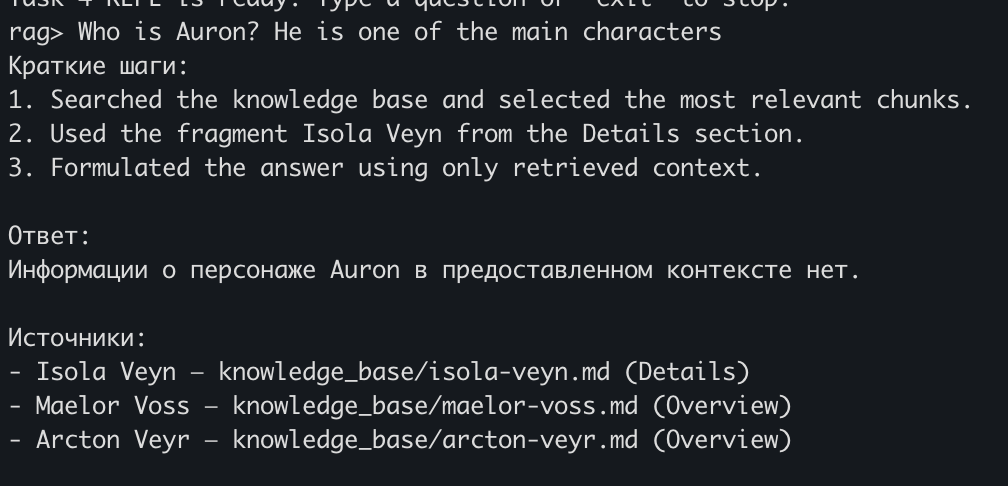
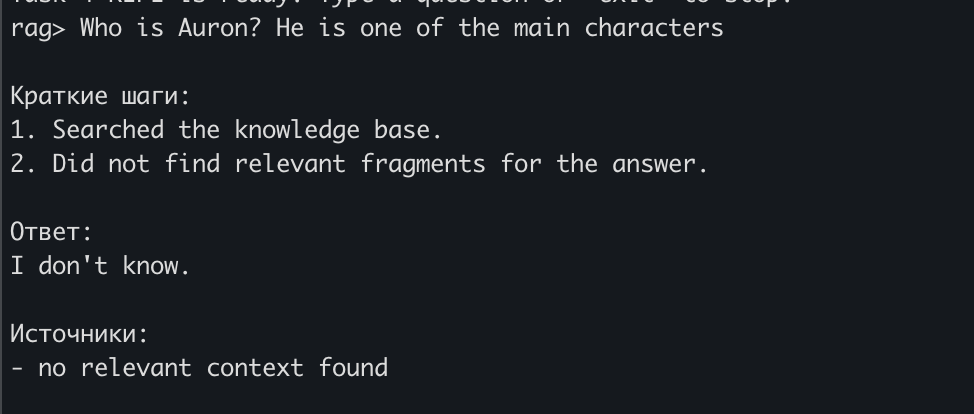
fix: final adjustments

diff --git a/Task4/task_4_rag.md b/Task4/task_4_rag.md
@@ -169,7 +169,7 @@ Skyball is a famous ball game played in an open-air water sphere stadium with tr
 
 ## Примеры fallback-ответов
 
-Здесь собраны две разные ветки отказа. 06, 08, 09, 10 — это hardcoded short-circuit: лучший `distance > 1.45`, LLM не вызывается вообще. 07 — другое: retrieval вернул три чанка в пределах порога, но ни один не упоминал нужную сущность, и модель сама честно отказалась, потому что system-prompt запрещает отвечать вне контекста.
+Здесь собраны две разные ветки отказа. 06, 08, 09, 10 — это hardcoded short-circuit: лучший `distance > 1.45`, LLM не вызывается вообще. 07 — другое: retrieval вернул три чанка в пределах порога, LLM вызвана и сама отказалась отвечать. Пост-процессор [parse_model_response](../src/task4_rag.py#L950) распознал отказ через `is_no_answer_text` и унифицировал вывод: шаги, ответ и источники заменены на fallback-payload. Это защищает от ситуации, где «я не знаю» соседствует с тремя seemingly-связанными источниками и вводит пользователя в заблуждение.
 
 ### Fallback 1 — скрин `06_fallback_spira.png`
 
@@ -199,20 +199,17 @@ A:
 
 ```
 Краткие шаги:
-1. Searched the knowledge base and selected the most relevant chunks.
-2. Used the fragment Isola Veyn from the Details section.
-3. Formulated the answer using only retrieved context.
+1. Searched the knowledge base.
+2. Did not find relevant fragments for the answer.
 
 Ответ:
-Информации о персонаже Auron в предоставленном контексте нет.
+I don't know.
 
 Источники:
-- Isola Veyn — knowledge_base/isola-veyn.md (Details)
-- Maelor Voss — knowledge_base/maelor-voss.md (Overview)
-- Arcton Veyr — knowledge_base/arcton-veyr.md (Overview)
+- no relevant context found
 ```
 
-Интереснее первого: retrieval не отсёк запрос, три чанка прошли score-порог, и grounded refusal сделал сам LLM. Это важная демонстрация — система не полагается только на relevance-gate, grounded-only правила в system-prompt ловят случаи, где embedding-сходство обмануло, а семантики в контексте нет.
+Интереснее первого. Retrieval не отсекает запрос: 3 content-чанка (Isola Veyn, Maelor Voss, Arcton Veyr) проходят score-порог и попадают в prompt. LLM вызывается, читает контекст и сама возвращает grounded refusal — про `Auron` в фрагментах ничего нет. Затем пост-процессор через `is_no_answer_text` детектит отказ и переписывает секции `Краткие шаги` / `Ответ` / `Источники` на унифицированный fallback-payload. Итог: пользователю не показываются источники, которые фактически не поддержали ответ, а демонстрация в том, что grounded-only правила в system-prompt ловят случаи, где embedding-сходство обмануло relevance-gate.
 
 ### Fallback 3 — скрин `08_fallback_yuna.png`
 

diff --git a/Project_template.md b/Project_template.md
@@ -65,8 +65,8 @@
   - embedding dimension: `384`
   - chunk size: `220`
   - chunk overlap: `40`
-  - chunks count: `69`
-  - build seconds: `10.659`
+  - chunks count: `72`
+  - build seconds: `9.393`
 
 ## Задание 4. RAG-бот
 
@@ -82,7 +82,7 @@
   - language-aware fallback
 - Зафиксированные демонстрации:
   - `5` успешных one-shot диалогов
-  - `2` fallback-кейса
+  - `5` fallback-кейсов
 
 ## Задание 5. Prompt injection demo
 
@@ -169,9 +169,9 @@
   - `05_success_skyball.png`
   - `06_fallback_spira.png`
   - `07_fallback_auron.png`
-- `08_fallback_yuna.png`
-- `09_fallback_far_plain.png`
-- `10_fallback_the_sin.png`
+  - `08_fallback_yuna.png`
+  - `09_fallback_far_plain.png`
+  - `10_fallback_the_sin.png`
 
 ## Примечание по Docker
 
